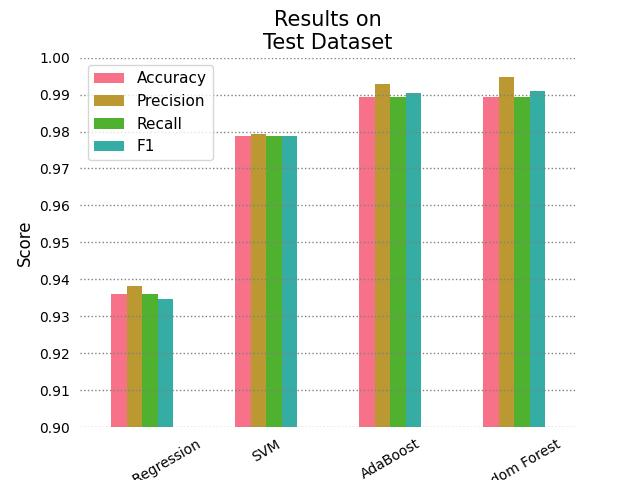
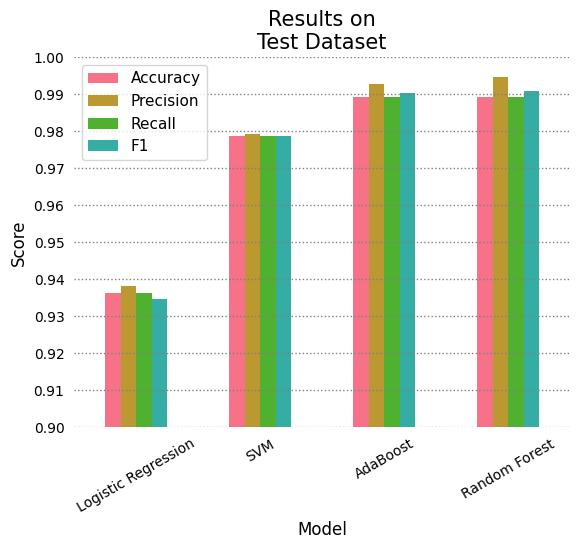
MOD at project readme for adding sections about machine learning models results & MOD at abstract section

diff --git a/README.md b/README.md
@@ -1,7 +1,7 @@
 # Healthy Sleep Analysis
 
 ## Abstract
-Statistical analysis of sleep quality of patients based on their habits, quality of life, physical activity and sleep disorders.
+This project aims to perform a Statistical Analysis (EDA) and build a Machine Learning (ML) model to predict patient sleep quality based on their habits, quality of life, physical activity, and sleep disorders.
 
 ## About the Dataset
 The dataset is taken from [Health and Sleep relation](https://www.kaggle.com/datasets/orvile/health-and-sleep-relation-2024). This dataset explores the relationship between sleep patterns and overall health. It includes detailed information on individual sleep habits, health metrics, and lifestyle factors, enabling analysis of how sleep quality and duration impact physical and mental well-being.
@@ -58,6 +58,17 @@ With a minimum support of 15%, confidence of 90% and lift of 5, two relevante ru
 * **Rule 1**: Reflects the conditions for achieving the best rest/sleep and having a normal heart rate, which are having low stress levels, sleeping between 7 and 9 hours, and being between 50 and 60 years old. Overall, this rule explains how sleeping well and not living stressed impacts how well one sleeps.
 * **Rule 2**: Shows the association that exists between having a precarious health status and the habits of an individual. The most relevant finding is that it verifies the pattern that being overweight implies being sedentary and having low physical activity, and that this adds to the occurrence of insomnia, resulting in fewer hours of sleep.
 
+## Machine Learning Models
+The detailed process for model definition and creation can be found in [ModelsTraining.ipynb](./MachineLearning/ModelsTraining.ipynb). Four different classification models are proposed, trained with weighted F1 (due to the notable class imbalance in the dataset) and fine-tuned using [Optuna](https://optuna.org/) in order to predict the `Quality of Sleep` of a patient. Derived from the [Statistical Analysis](#exploratory-data-analysis), non-linear models (SVM, Random Forest, and AdaBoost) and a linear model (Logistic Regression) are employed, with the latter serving as a baseline and comparison point for the other models.
+
+Using Logistic Regression as a baseline allows for the evaluation that the classes were not entirely linearly separable. However, the addition of non-linear elements (polynomial operations or non-linear functions) enables the classes to be correctly separated and classified (based on the confusion matrices), where errors decrease and metrics increase considerably. Furthermore, these non-linear models generate more consistent and robust predictions; specifically, when they do not predict the correct class, their prediction differs by at most one class or level (this comparison method is valid because `Quality of Sleep` is an ordinal variable).
+
+<img src="./Resources/ConfusionMatrix_Models.jpg" alt="Correlation between Sleep Duration and Quality of Sleep" width=450/>
+
+Based on the results and their subsequent analysis performed in [ModelsTraining.ipynb](./MachineLearning/ModelsTraining.ipynb), the AdaBoost model is chosen for production deployment, as its metrics are high and its predictions are consistent. These characteristics are a result of how this ensemble is trained, along with appropriate fine-tuning.
+
+<img src="./Resources/Results_Models.jpg" alt="Correlation between Sleep Duration and Quality of Sleep" width=450/>
+
 ## Installation and Usage
 1. First it has to clone the repository and move to the project directory:
 ```bash
@@ -70,10 +81,17 @@ cd HealthySleep
 pip install -r requirements.txt
 ```
 
-3. Finally, run and view the Marimo notebooks with the following commands:
+### Statistical Analysis
+1. Run and view the Marimo notebooks with the following commands:
 ```bash
 marimo run StatisticalAnalysis/StatisticalAnalysis.py
 marimo run StatisticalAnalysis/DataMining.py
+```
+
+### Machine Learning Models
+1. Open and run the Jupyter notebook with the following command:
+```bash
+jupyter notebook MachineLearning/ModelsTraining.ipynb
 ```
 
 ## Author, Affiliation and Contact
